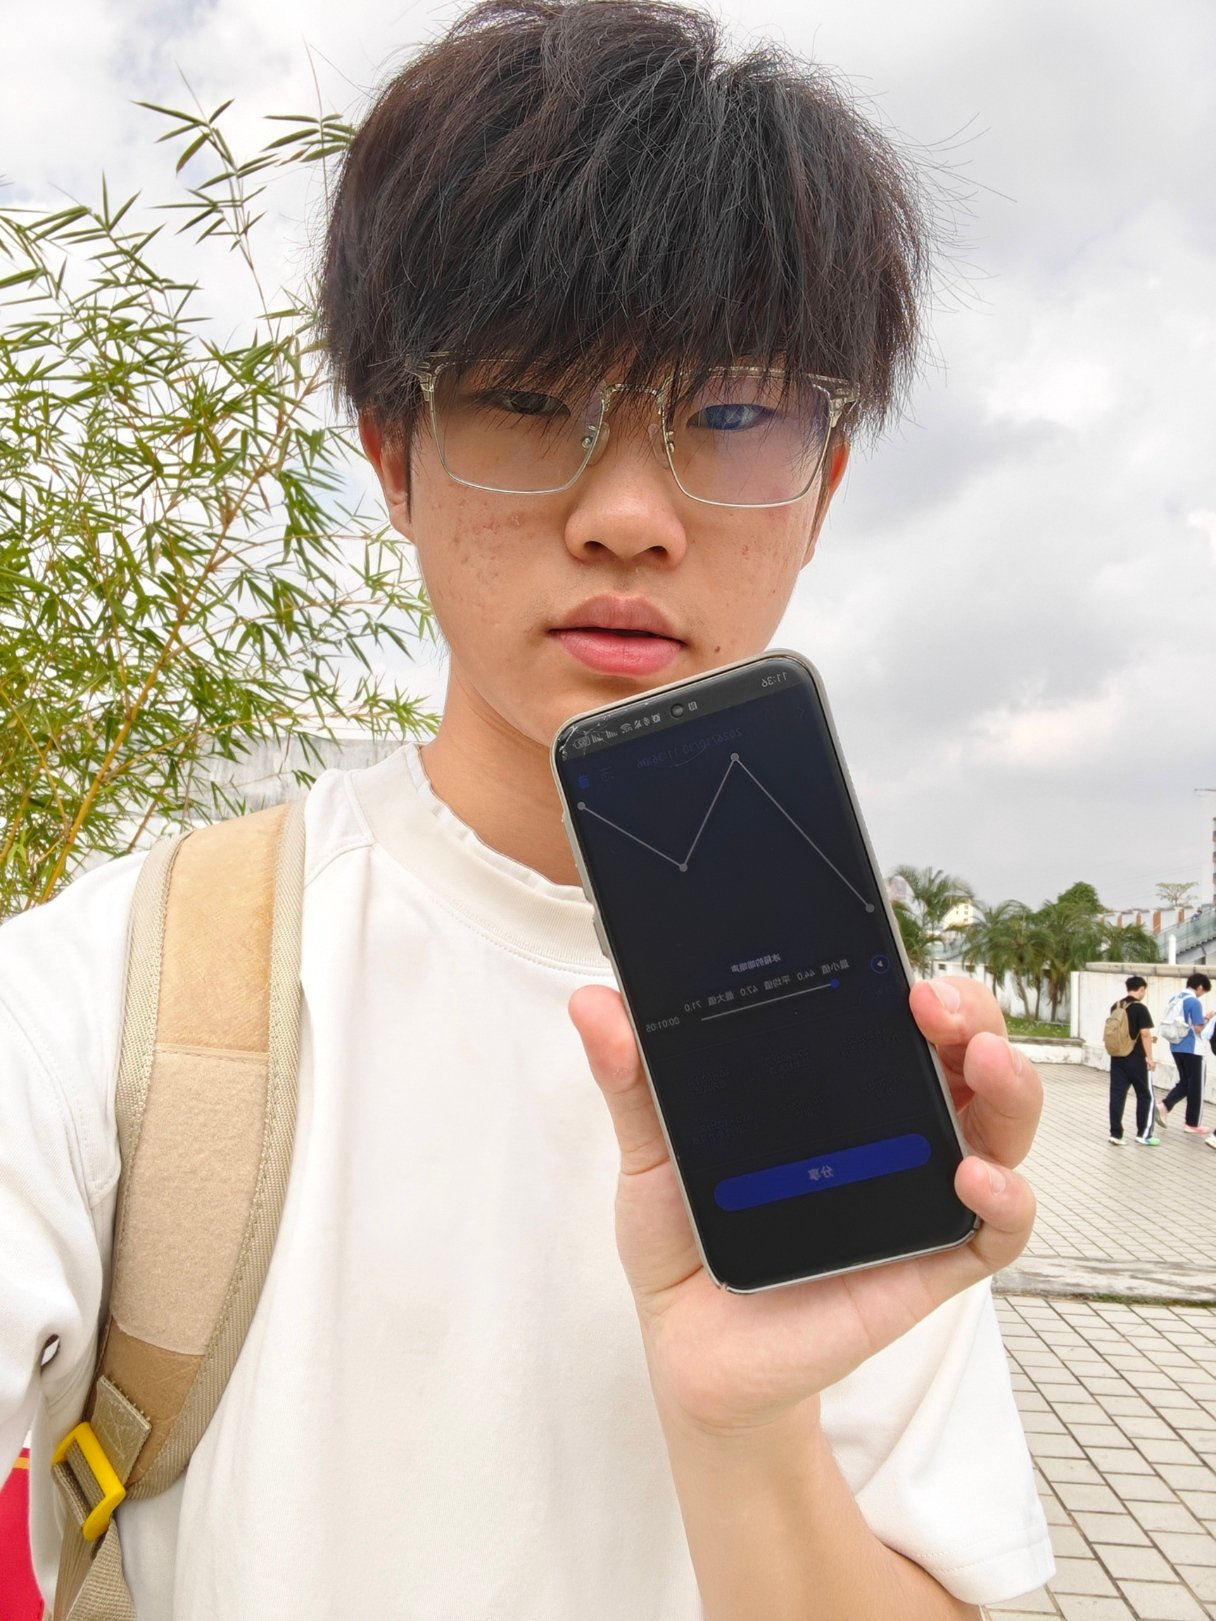
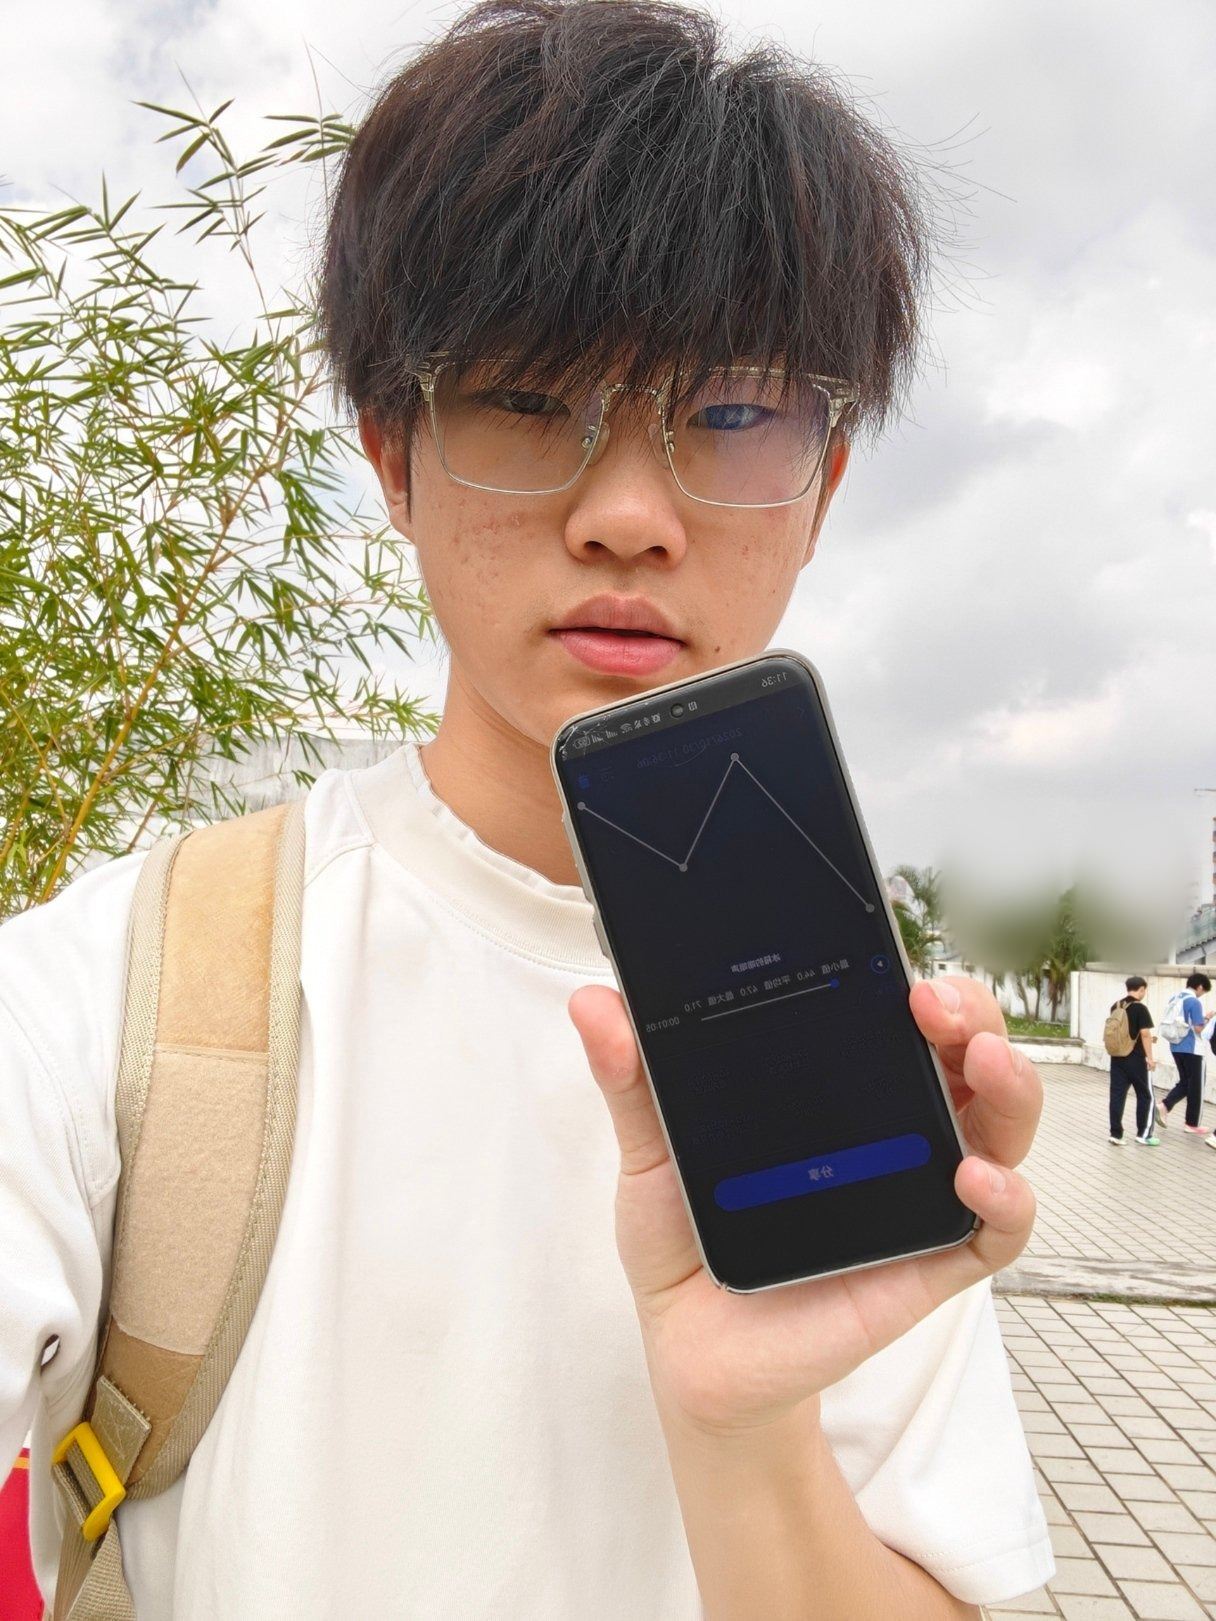
同框照：背景路人面部模糊处理，本人保留

Changed region(s): [[0.75, 0.5244, 1.0, 0.6169]]

diff --git a/01-Field-Discovery/photos/scene/README.md b/01-Field-Discovery/photos/scene/README.md
@@ -27,3 +27,10 @@
 - 时间是手机文件名与屏幕截图状态栏互相印证的，不是事后补写的
 - 第 15 张是逆光拍摄，屏幕反光看不清——但这本身也是「现场强光条件下手机可读性差」的一个记录
 - 这些照片只用于证明「数据是谁在什么地点采的」，不参与任何数值计算
+
+## 隐私处理
+
+- **本人面部保留**（用于证明「本人现场」，这是题目要求）
+- **背景路人的面部已做高斯模糊**，涉及 04（食堂两名同学）、09（实训楼外的师傅）、12（右后方两名学生）、13（广场上三人）、15（右后方行人）
+- 画面中距离过远、单个不足约 30 px、已经无法辨识的人像未作处理
+- 如需删除任何一张，直接说文件名即可
